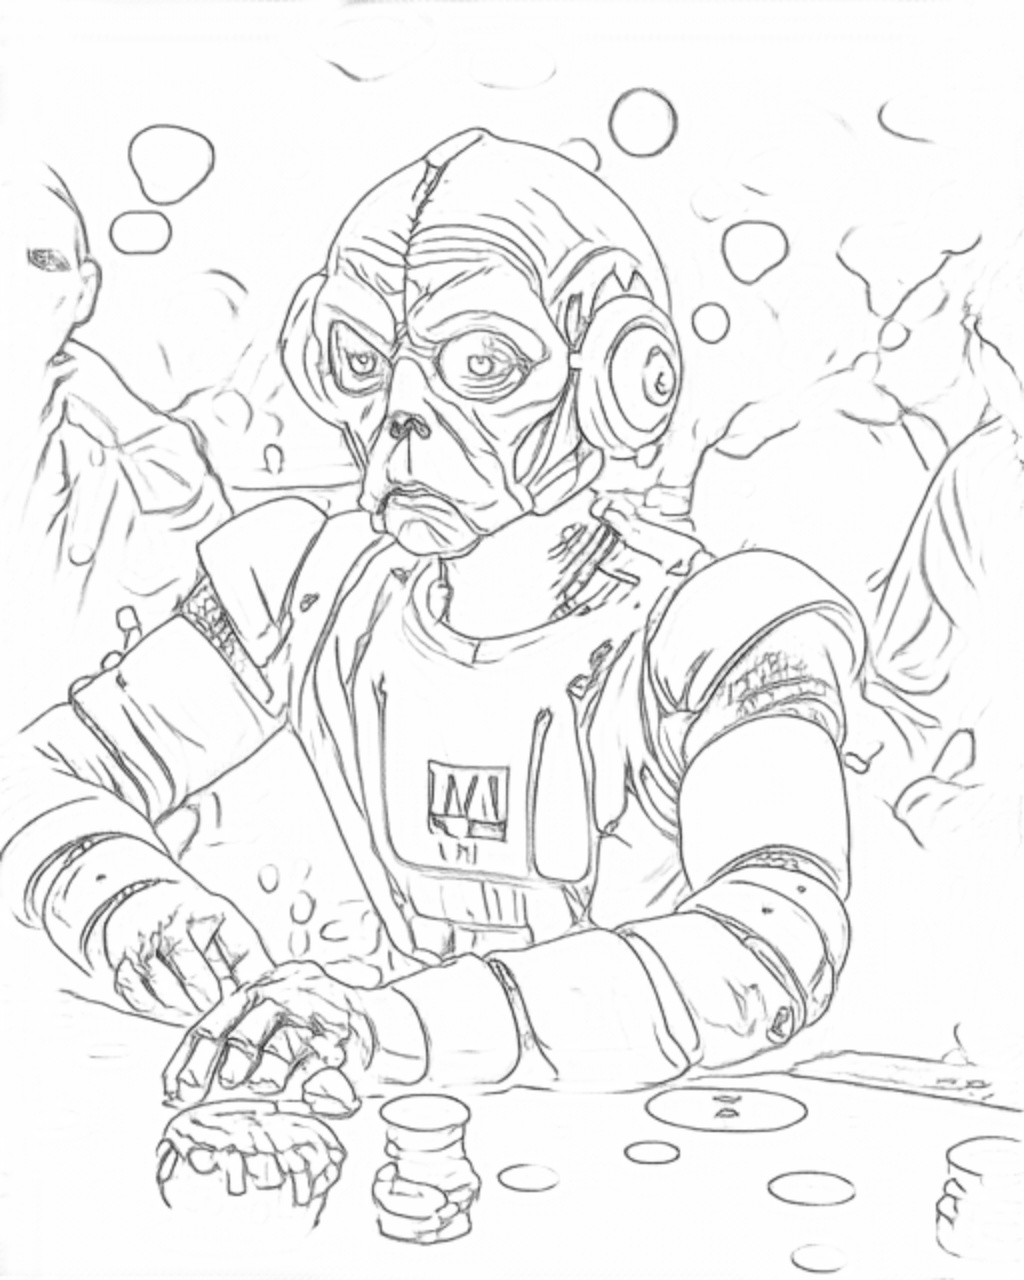
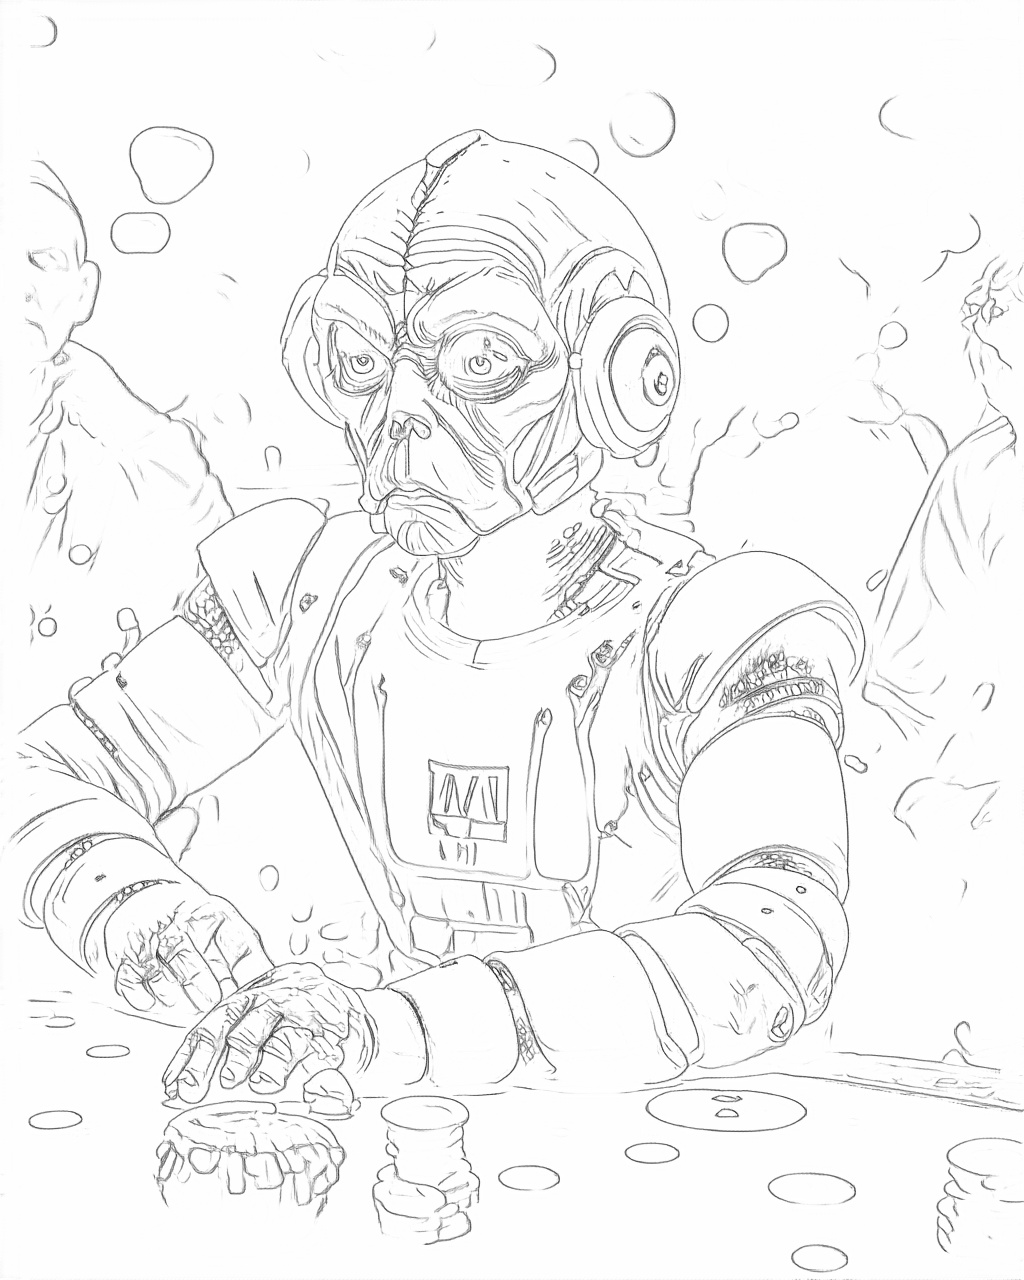
Added some combo annotaters

diff --git a/annotators.py b/annotators.py
@@ -314,6 +314,134 @@ annotators.append(
 )
 
 
+def normalbae_ade20k(self, img, res, normalbae_ade20k_min=0.5):
+    # find midas and ade20k
+
+    oneformer_ade20k = None
+    normalbae = None
+    for annotator in annotators:
+        if annotator.slug == 'normalbae':
+            normalbae = annotator
+        if annotator.slug == 'oneformer_ade20k':
+            oneformer_ade20k = annotator
+
+    normalbae_img = normalbae(img, res)[0]
+    ade20k_img = oneformer_ade20k(img, res)[0]
+
+
+    # convert to 0 - 1 float
+    normalbae_img = normalbae_img.astype(np.float32) / 255.0
+    ade20k_img = ade20k_img.astype(np.float32) / 255.0
+
+    # make it grayscale by averaging the channels
+    if normalbae_img.ndim == 3:
+        normalbae_img = np.mean(normalbae_img, axis=-1, keepdims=True)
+        # stack
+        normalbae_img = np.concatenate([normalbae_img, normalbae_img, normalbae_img], axis=-1)
+
+        # normalize
+        normalbae_img = value_map(normalbae_img, np.min(normalbae_img), np.max(normalbae_img), 0, 1)
+
+    # adjust midas min value
+    normalbae_img = value_map(normalbae_img, 0, 1.0, normalbae_ade20k_min, 1.0)
+
+    merged = ade20k_img * normalbae_img
+    merged = np.clip(merged, 0, 1) * 255
+    merged = merged.astype(np.uint8)
+
+    return [merged]
+
+
+annotators.append(
+    Annotator(
+        name='Normal Bae + Oneformer ADE20k',
+        slug='normalbae_ade20k',
+        additional_args=[
+            {
+                'slug': 'normalbae_ade20k_min',
+                'type': float,
+                'default': 0.2,
+                'help': 'Minimum value for normal bae overlay'
+            }
+        ],
+        call_override=normalbae_ade20k
+    )
+)
+
+
+def kitchen_sink(self, img, res):
+
+    min_midas = 0.2
+    min_normalbae = 0.5
+    min_depth_scale = 0.2
+    # find midas and ade20k
+
+    midas = None
+    normalbae = None
+    oneformer_ade20k = None
+    openpose = None
+    for annotator in annotators:
+        if annotator.slug == 'normalbae':
+            normalbae = annotator
+        if annotator.slug == 'oneformer_ade20k':
+            oneformer_ade20k = annotator
+        if annotator.slug == 'midas':
+            midas = annotator
+        if annotator.slug == 'openpose':
+            openpose = annotator
+
+
+    normalbae_img = normalbae(img, res)[0]
+    ade20k_img = oneformer_ade20k(img, res)[0]
+    midas_img = midas(img, res)[0]
+    openpose_img = openpose(img, res)[0]
+
+
+    # convert to 0 - 1 float
+    normalbae_img = normalbae_img.astype(np.float32) / 255.0
+    ade20k_img = ade20k_img.astype(np.float32) / 255.0
+
+    # make it grayscale by averaging the channels
+    if normalbae_img.ndim == 3:
+        normalbae_img = np.mean(normalbae_img, axis=-1, keepdims=True)
+        # stack
+        normalbae_img = np.concatenate([normalbae_img, normalbae_img, normalbae_img], axis=-1)
+
+    # expand to 3 channels
+    if midas_img.ndim == 2:
+        midas_img = np.expand_dims(midas_img, axis=-1)
+        # stack
+        midas_img = np.concatenate([midas_img, midas_img, midas_img], axis=-1)
+
+    # adjust midas min value
+    normalbae_img = value_map(normalbae_img, np.min(normalbae_img), np.max(normalbae_img), min_normalbae, 1.0)
+
+    # adjust midas min value
+    midas_img = value_map(midas_img, np.min(midas_img), np.max(midas_img), min_midas, 1.0)
+
+    depth_scaler = normalbae_img * midas_img
+
+    # normalize depth scaler
+    depth_scaler = value_map(depth_scaler, np.min(depth_scaler), np.max(depth_scaler), min_depth_scale, 1.0)
+
+    image = ade20k_img + openpose_img
+
+    merged = image * depth_scaler
+    merged = np.clip(merged, 0, 1) * 255
+    merged = merged.astype(np.uint8)
+
+    return [merged]
+
+
+annotators.append(
+    Annotator(
+        name='Kitchen Sink',
+        slug='kitchen_sink',
+        call_override=kitchen_sink
+    )
+)
+
+
 def post_process(annotated_img, original_image):
     img = annotated_img
     # is is list, get the first one

diff --git a/README.md b/README.md
@@ -17,22 +17,25 @@ python main.py <input_dir> <output_dir> <annotator>
 
 ### Annotators
 
-| Annotator        | Image                                                                                                                              |
-|------------------|------------------------------------------------------------------------------------------------------------------------------------|
-|                  | <img src="https://raw.githubusercontent.com/ostris/batch-annotator/main/assets/img.jpg" width="384" height="480">                  |
-| canny            | <img src="https://raw.githubusercontent.com/ostris/batch-annotator/main/assets/img_canny.jpg" width="384" height="480">            |
-| color_shuffler   | <img src="https://raw.githubusercontent.com/ostris/batch-annotator/main/assets/img_color_shuffler.jpg" width="384" height="480">   |
+| Annotator        | Image                                                                                                                           |
+|------------------|---------------------------------------------------------------------------------------------------------------------------------|
+|                  | <img src="https://raw.githubusercontent.com/ostris/batch-annotator/main/assets/img.jpg" width="384" height="480">               |
+| canny            | <img src="https://raw.githubusercontent.com/ostris/batch-annotator/main/assets/img_canny.jpg" width="384" height="480">         |
+| color_shuffler   | <img src="https://raw.githubusercontent.com/ostris/batch-annotator/main/assets/img_color_shuffler.jpg" width="384" height="480"> |
 | content_shuffler | <img src="https://raw.githubusercontent.com/ostris/batch-annotator/main/assets/img_content_shuffler.jpg" width="384" height="480"> |
-| hed              | <img src="https://raw.githubusercontent.com/ostris/batch-annotator/main/assets/img_hed.jpg" width="384" height="480">              |
-| lineart          | <img src="https://raw.githubusercontent.com/ostris/batch-annotator/main/assets/img_lineart.jpg" width="384" height="480">          |
-| lineart_anime    | <img src="https://raw.githubusercontent.com/ostris/batch-annotator/main/assets/img_lineart_anime.jpg" width="384" height="480">    |
-| midas            | <img src="https://raw.githubusercontent.com/ostris/batch-annotator/main/assets/img_midas.jpg" width="384" height="480">            |
-| mlsd             | <img src="https://raw.githubusercontent.com/ostris/batch-annotator/main/assets/img_mlsd.jpg" width="384" height="480">             |
-| normalbae        | <img src="https://raw.githubusercontent.com/ostris/batch-annotator/main/assets/img_normalbae.jpg" width="384" height="480">        |
+| hed              | <img src="https://raw.githubusercontent.com/ostris/batch-annotator/main/assets/img_hed.jpg" width="384" height="480">           |
+| lineart          | <img src="https://raw.githubusercontent.com/ostris/batch-annotator/main/assets/img_lineart.jpg" width="384" height="480">       |
+| lineart_anime    | <img src="https://raw.githubusercontent.com/ostris/batch-annotator/main/assets/img_lineart_anime.jpg" width="384" height="480"> |
+| midas            | <img src="https://raw.githubusercontent.com/ostris/batch-annotator/main/assets/img_midas.jpg" width="384" height="480">         |
+| mlsd             | <img src="https://raw.githubusercontent.com/ostris/batch-annotator/main/assets/img_mlsd.jpg" width="384" height="480">          |
+| normalbae        | <img src="https://raw.githubusercontent.com/ostris/batch-annotator/main/assets/img_normalbae.jpg" width="384" height="480">     |
 | oneformer_ade20k | <img src="https://raw.githubusercontent.com/ostris/batch-annotator/main/assets/img_oneformer_ade20k.jpg" width="384" height="480"> |
-| oneformer_coco   | <img src="https://raw.githubusercontent.com/ostris/batch-annotator/main/assets/img_oneformer_coco.jpg" width="384" height="480">   |
-| openpose         | <img src="https://raw.githubusercontent.com/ostris/batch-annotator/main/assets/img_openpose.jpg" width="384" height="480">         |
-| pidi             | <img src="https://raw.githubusercontent.com/ostris/batch-annotator/main/assets/img_pidi.jpg" width="384" height="480">             |
-| uniformer        | <img src="https://raw.githubusercontent.com/ostris/batch-annotator/main/assets/img_uniformer.jpg" width="384" height="480">        |
-| zoe              | <img src="https://raw.githubusercontent.com/ostris/batch-annotator/main/assets/img_zoe.jpg" width="384" height="480">              |
+| oneformer_coco   | <img src="https://raw.githubusercontent.com/ostris/batch-annotator/main/assets/img_oneformer_coco.jpg" width="384" height="480"> |
+| openpose         | <img src="https://raw.githubusercontent.com/ostris/batch-annotator/main/assets/img_openpose.jpg" width="384" height="480">      |
+| pidi             | <img src="https://raw.githubusercontent.com/ostris/batch-annotator/main/assets/img_pidi.jpg" width="384" height="480">          |
+| uniformer        | <img src="https://raw.githubusercontent.com/ostris/batch-annotator/main/assets/img_uniformer.jpg" width="384" height="480">     |
+| zoe              | <img src="https://raw.githubusercontent.com/ostris/batch-annotator/main/assets/img_zoe.jpg" width="384" height="480">           |
+| midas_ade20k              | <img src="https://raw.githubusercontent.com/ostris/batch-annotator/main/assets/img_midas_ade20k.jpg" width="384" height="480">              |
+| normalbae_ade20k              | <img src="https://raw.githubusercontent.com/ostris/batch-annotator/main/assets/img_normalbae_ade20k.jpg" width="384" height="480">              |
+| kitchen_sink              | <img src="https://raw.githubusercontent.com/ostris/batch-annotator/main/assets/img_kitchen_sink.jpg" width="384" height="480">              |
 
